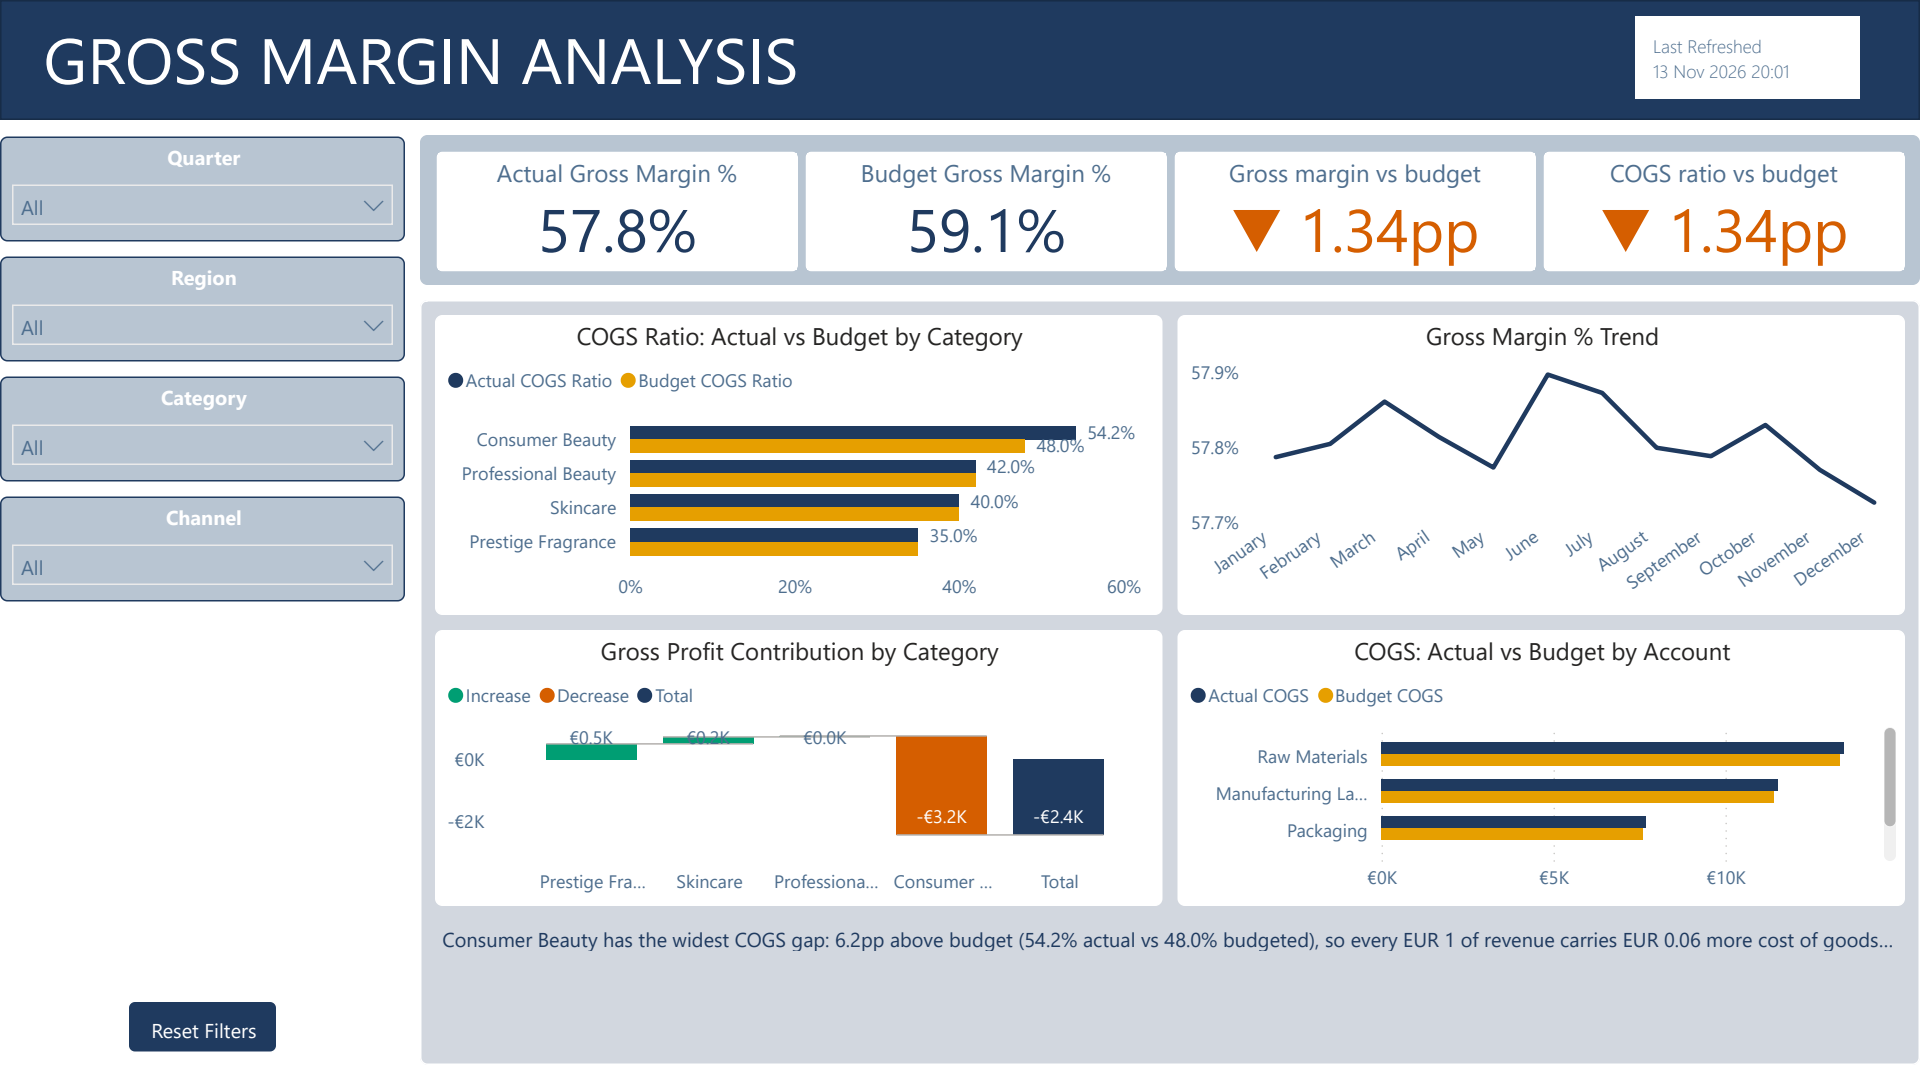
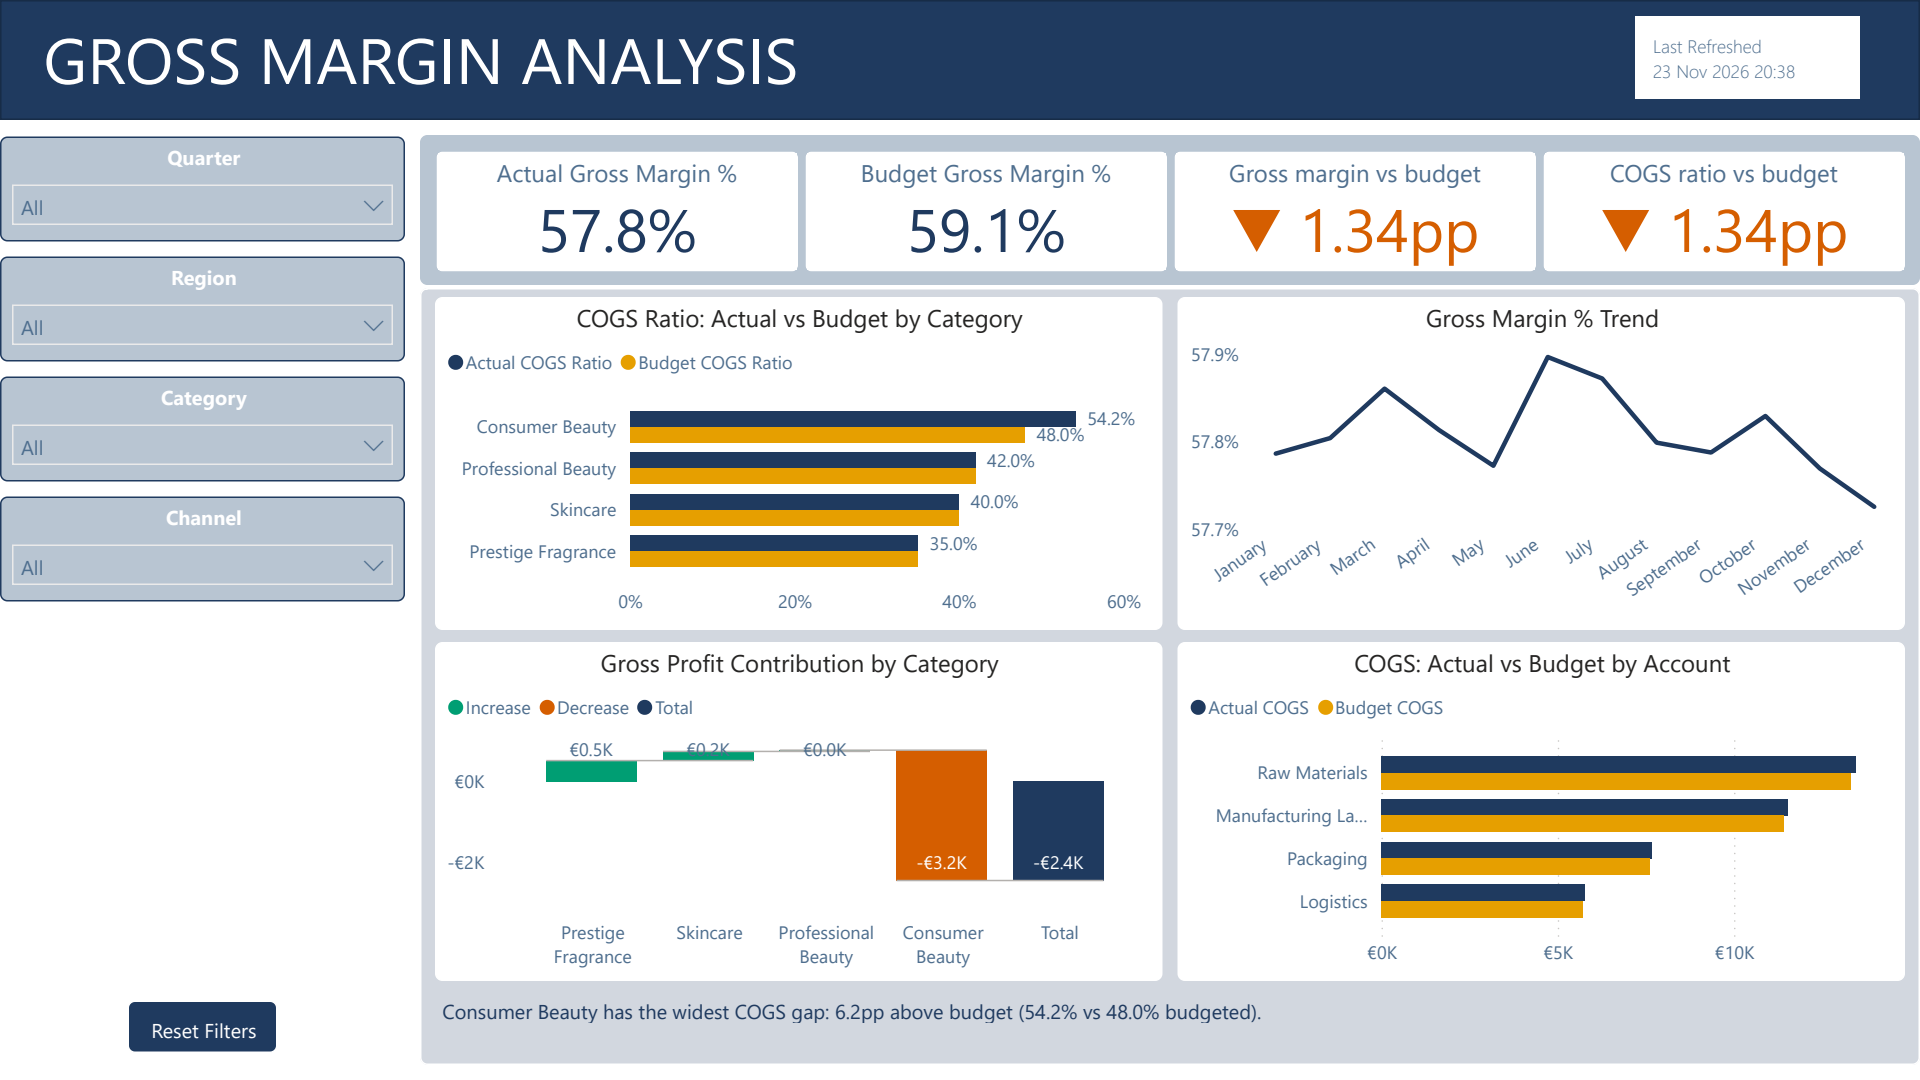
Stop the COGS ratio chart and the commentary cards clipping
Two defects were left after the previous layout pass, and the screenshots
in docs/img showed both.

COGS Ratio: Actual vs Budget by Category was missing Prestige Fragrance.
Not a filter, a Top N, an axis range or a blank measure -- the visual has
no filterConfig at all and the category returns 35.0%. Enlarging the COGS
by account chart below it had cost this one 10px, taking it from 200 to
190, and below roughly 195px the plot area can no longer lay out four
category bands of two bars, so the category axis paginates and the
lowest-sorted category falls off the bottom. Restored to 222px.

The three narrative cards truncated mid-sentence. wordWrap was already
true on all of them; multiRowCard ignores it for a long single value and
ellipsises instead. Rather than drop below 11pt, the narrative measures
now compose a single line: the Margin text loses its cost-per-EUR tail,
Budget vs Actuals loses the 1)/2)/3) numbering, and repeated "against
budget" phrasing is gone. All the sign-aware branching is kept, including
the single-category and single-region collapses.

The longest output each measure can produce was measured rather than
estimated. Rendering calibrates Segoe UI to ~13.15px effective, so one
line holds about 164 characters; every one of the 50,625 slicer states
was evaluated against the workbook and the widest result is 768px inside
a 950px usable card:

  Narrative Revenue             105 chars  649px
  Narrative Margin              106 chars  655px
[…]

diff --git a/REVIEW.md b/REVIEW.md
@@ -386,7 +386,7 @@ byte-wise without a BOM.
 | Margin page fix | The "Gross Profit: Actual vs Budget by Account" chart was worse than the baseline review recorded. With `Actual Revenue` filtered to revenue accounts and the axis on a cost account, the intersection was empty, so every COGS bar was plotting *negative COGS* under a gross-profit title. It is now "COGS: Actual vs Budget by Account", on `Dim_Account[AccountName]` with a visual-level filter to the COGS section. |
 | New page | **P&L Statement** — a matrix on `Dim_Account[AccountName]` in `PLSort` order showing actual, budget, favourable-signed variance and variance %, with Gross Profit and EBIT as calculated rows. The Interest and Net Profit accounts return blank on all four measures, so the matrix drops them without needing a filter, and the grand total is deliberately blank because a P&L does not add its own sections together. |
 | Accessibility | Alt text added to every data visual across all four pages. There was none before. |
-| Layout | A later pass corrected four visuals that were clipping their own content: the region × category matrix and the variance summary table were showing only part of their rows, the COGS by account chart only 3 of 5 accounts, and the three narrative cards were truncating mid-sentence. |
+| Layout | A later pass corrected four visuals that were clipping their own content: the region × category matrix and the variance summary table were showing only part of their rows, the COGS by account chart only part of its accounts, and the P&L table filling half its width. Enlarging the COGS chart cost the COGS ratio chart above it 10px, which dropped it below the height needed to lay out four category bands, so the lowest-sorted category paginated off the bottom — restored to 222px. The narrative cards ignore `wordWrap`, so instead the three narrative measures were shortened to a single line: the longest text each can produce was checked across all 50,625 slicer states (every non-empty subset of Quarter × Region × Category × Channel), the widest being 768px inside a 950px usable card. The cards then dropped from 78px to 46px and the reclaimed space went to the charts. |
 
 ### 4.3 Repository
 
@@ -480,7 +480,8 @@ An empty selection returns "No revenue in the current selection." rather than an
 - **`SourceFolder` ships with a placeholder value**, so no machine's directory layout or user name
   enters the repository. It must be pointed at the clone's `data` folder once before the first
   refresh; the README says so.
-- **The committed screenshots predate the layout pass** in §4.2 and need regenerating from a fresh
-  PDF export.
-- **The published report predates the layout pass** and will keep serving the earlier version until
-  it is republished.
+- **The published report predates the layout pass** in §4.2 and will keep serving the earlier
+  version until it is republished.
+- **The waterfall's two smallest data labels sit close enough to touch** at the current width. Not
+  corrected, because the values they label are legible and moving them risks the layout budget the
+  rest of the page now depends on.
